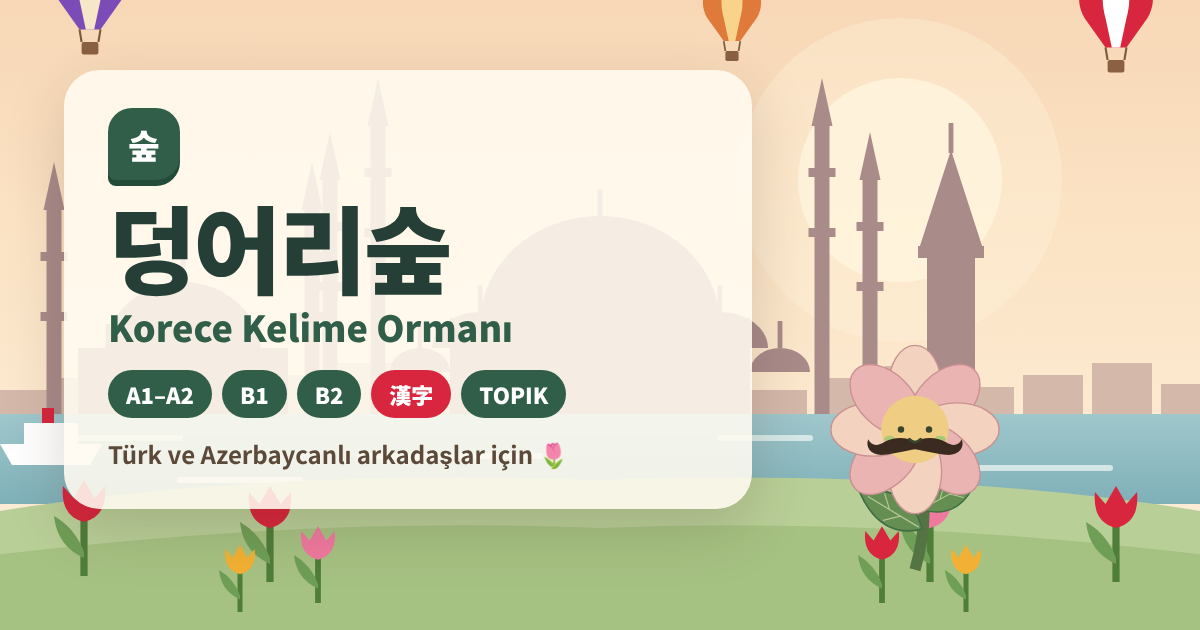
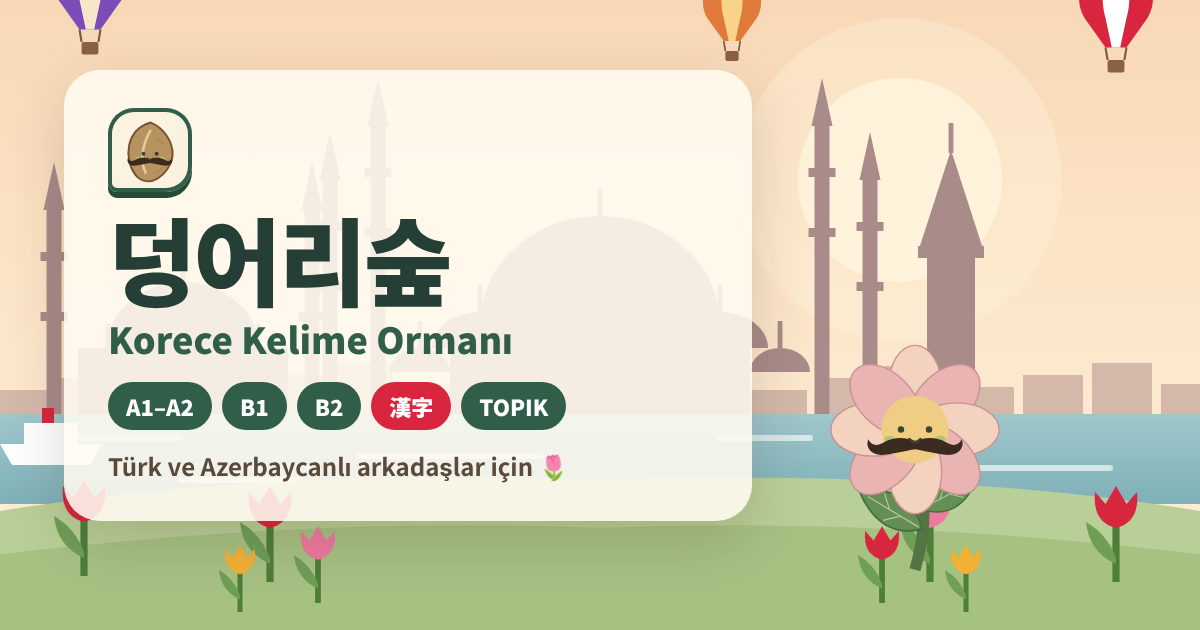
로고를 콧수염 마음씨로, 연락처 버튼 레이아웃 정리, 미리보기 그림 로고 교체
Claude-Session: https://claude.ai/code/session_012kSW7ZyPPrCC7F2xd3xm5g

Changed region(s): [[0.0925, 0.1508, 0.4933, 0.754], [0.0308, 0.7841, 0.6475, 0.8444]]

diff --git a/app.js b/app.js
@@ -42,7 +42,7 @@ tr:{sub:'Korece kelime ormanı · A1–B2',a2hsT:'📲 Ana ekrana ekle (uygulama
  story2:'Deongi Korece kelimelerle beslenir: her doğru cevap bir damla besin. Kelime öğrendikçe filizlenir, çiçek açar ve sonunda efsanevi bir bitkiye dönüşür. Bıyığını İstanbul\'daki ilk arkadaşı Berk kardeş hediye etti!',
  pathH:'Büyüme yolu',famH:'Bitki aileleri',
  path:[['Lv.1','Gönül Tohumu','Yolculuk başlıyor. Deongi toprağa düştü.'],['Lv.2','Gönül Filizi','İlk iki yaprak çıktı!'],['Lv.3','Aile seçimi','6 bitki ailesinden birini seçersin.'],['Lv.4–9','Büyüme','Her seviyede biraz daha büyür.'],['Lv.10','Evrim','Ailenin 3 yolundan birini seçersin.'],['Lv.15','Gizemli dönüşüm','İki gizemli formdan birini seçersin.'],['Lv.20','Efsanevi form','Antik ve efsanevi bitkiye dönüşür.']],
- famTxt:(f,mine)=>mine?`Senin ailen: ${f}`:'Başka bir aile — gölge olarak görünür.',locked:'Kilitli',lvReq:n=>`Lv.${n}\'da`,cur:'Şu an',music:'Müzik',musicOn:'Arka plan müziği: Açık',musicOff:'Arka plan müziği: Kapalı',notesH:'Güncelleme notları',notesBtn:'Neler yeni?',kakaoCopied:'KakaoTalk ID kopyalandı ✓',bizTitle:'İş birliği ve iletişim',bizText:'Kurumsal iş birliği, eğitim ve içerik ortaklığı için ulaşabilirsiniz.',myProg:'İlerleme tablom',stLearned:'Öğrenildi',stReview:'Tekrar edilecek',stNew:'Henüz çalışılmadı',learned:'Öğrenilen',toReview:'Tekrar',bestStreak:'En iyi seri',
+ famTxt:(f,mine)=>mine?`Senin ailen: ${f}`:'Başka bir aile — gölge olarak görünür.',locked:'Kilitli',lvReq:n=>`Lv.${n}\'da`,cur:'Şu an',music:'Müzik',musicOn:'Arka plan müziği: Açık',musicOff:'Arka plan müziği: Kapalı',notesH:'Güncelleme notları',notesBtn:'Neler yeni?',kakaoCopied:'Kopyalandı ✓',bizTitle:'İş birliği ve iletişim',bizText:'Kurumsal iş birliği, eğitim ve içerik ortaklığı için ulaşabilirsiniz.',myProg:'İlerleme tablom',stLearned:'Öğrenildi',stReview:'Tekrar edilecek',stNew:'Henüz çalışılmadı',learned:'Öğrenilen',toReview:'Tekrar',bestStreak:'En iyi seri',
  start:'Başla',quiz:'Test',cards:'Kartlar',review:n=>`Tekrar ${n}`,allUnits:'Tüm bölümler',unitN:k=>/^\d+$/.test(k)?`Bölüm ${k}`:k,
  level:'Seviye',unit:'Bölüm',timerOn:'12 saniye',timerOff:'Süre yok',timeLimit:'Süre sınırı (test)',
  hint:'Doğru anlama dokun · klavye 1–4',qWord:'Bu kelimenin anlamı nedir?',qPair:'Bu eş kelimenin anlamı nedir?',qHanja:'Bu Çince karakterin anlamı nedir?',
@@ -85,7 +85,7 @@ ko:{sub:'한국어 단어의 숲 · A1–B2',a2hsT:'📲 홈 화면에 추가하
  story2:'덩이는 한국어 단어를 먹고 자라요. 정답 하나가 양분 한 방울! 단어를 익힐수록 싹이 트고 꽃이 피고, 마침내 전설의 식물이 돼요. 콧수염은 이스탄불에서 처음 사귄 친구, Berk 동생의 선물이에요!',
  pathH:'성장 단계',famH:'식물 계열',
  path:[['Lv.1','마음씨','여행이 시작돼요. 덩이가 땅에 떨어졌어요.'],['Lv.2','마음싹','첫 떡잎 두 장이 나왔어요!'],['Lv.3','계열 선택','6가지 식물 계열 중 하나를 골라요.'],['Lv.4–9','쑥쑥 성장','레벨마다 조금씩 커져요.'],['Lv.10','진화','계열마다 3가지 길 중 하나를 골라요.'],['Lv.15','신기한 변신','두 갈래 중 하나를 골라요.'],['Lv.20','전설의 모습','고대·전설의 식물로 변신해요.']],
- famTxt:(f,mine)=>mine?`나의 계열: ${f}`:'다른 계열이에요 — 그림자로 보여요.',locked:'잠김',lvReq:n=>`Lv.${n}`,cur:'지금',music:'음악',musicOn:'배경 음악: 켜짐',musicOff:'배경 음악: 꺼짐',notesH:'업데이트 노트',notesBtn:'새로운 내용 보기',kakaoCopied:'카카오톡 ID 복사됨 ✓',bizTitle:'비즈니스 협업 · 문의',bizText:'기관·기업 협업, 교육·콘텐츠 제휴는 아래로 연락 주세요.',myProg:'나의 진도표',stLearned:'익힘',stReview:'다시 볼 단어',stNew:'아직 안 함',learned:'익힌 단어',toReview:'복습',bestStreak:'최고 연속',
+ famTxt:(f,mine)=>mine?`나의 계열: ${f}`:'다른 계열이에요 — 그림자로 보여요.',locked:'잠김',lvReq:n=>`Lv.${n}`,cur:'지금',music:'음악',musicOn:'배경 음악: 켜짐',musicOff:'배경 음악: 꺼짐',notesH:'업데이트 노트',notesBtn:'새로운 내용 보기',kakaoCopied:'복사됨 ✓',bizTitle:'비즈니스 협업 · 문의',bizText:'기관·기업 협업, 교육·콘텐츠 제휴는 아래로 연락 주세요.',myProg:'나의 진도표',stLearned:'익힘',stReview:'다시 볼 단어',stNew:'아직 안 함',learned:'익힌 단어',toReview:'복습',bestStreak:'최고 연속',
  start:'시작하기',quiz:'퀴즈',cards:'카드',review:n=>`복습 ${n}`,allUnits:'전체 단원',unitN:k=>/^\d+$/.test(k)?`${k}단원`:k,
  level:'단계',unit:'단원',timerOn:'12초',timerOff:'시간제한 없음',timeLimit:'제한 시간 (퀴즈)',
  hint:'알맞은 뜻을 누르세요 · 키보드 1–4',qWord:'이 단어의 뜻은 무엇일까요?',qPair:'이 짝꿍어휘의 뜻은 무엇일까요?',qHanja:'이 한자의 뜻은 무엇일까요?',
@@ -482,47 +482,18 @@ $('bReset').onclick=()=>{if(!resetArm){resetArm=true;$('bReset').textContent=t('
 // ---------- iletişim bağlantıları ----------
 function renderLinks(){
  const h=[];
- if(INSTA)h.push(`<a class="ig" href="https://www.instagram.com/${encodeURIComponent(INSTA)}/" target="_blank" rel="noopener">Instagram @${esc(INSTA)}</a>`);
- if(KAKAO)h.push(`<button class="kk" data-copy="${esc(KAKAO)}">KakaoTalk ID: ${esc(KAKAO)} · ${esc(t('copy'))}</button>`);
- if(CONTACT)h.push(`<a class="ml" href="mailto:${esc(CONTACT)}">✉ ${esc(CONTACT)}</a>`);
+ if(INSTA)h.push(`<a class="lk ig" href="https://www.instagram.com/${encodeURIComponent(INSTA)}/" target="_blank" rel="noopener"><span class="ic"><svg><use href="#i-ig"/></svg></span><span class="tx"><b>Instagram</b><small>@${esc(INSTA)}</small></span></a>`);
+ if(KAKAO)h.push(`<button class="lk kk" data-copy="${esc(KAKAO)}"><span class="ic"><svg><use href="#i-kk"/></svg></span><span class="tx"><b>KakaoTalk</b><small>ID · ${esc(KAKAO)}</small></span></button>`);
+ if(CONTACT)h.push(`<a class="lk ml" href="mailto:${esc(CONTACT)}"><span class="ic"><svg><use href="#i-mail"/></svg></span><span class="tx"><b>E-mail</b><small>${esc(CONTACT)}</small></span></a>`);
  ['links','linksW','linksN'].forEach(id=>{$(id).innerHTML=h.join('')});
 }
-document.addEventListener('click',async e=>{const b=e.target.closest('[data-copy]');if(!b)return;
- try{await navigator.clipboard.writeText(b.dataset.copy);b.textContent=t('kakaoCopied')}catch(err){b.textContent='KakaoTalk ID: '+b.dataset.copy}});
-
-// ---------- bitki rehberi (도감) ----------
-let bookFam=null;
-function svgAt(pet,lv,route,branch,lock){CH.setProfile({routes:route?{[pet]:route}:{},branches:branch?{[pet]:branch}:{}});return CH.creatureSVG(pet,route||null,lv,undefined,lock,branch||null)}
-function renderBook(){
- $('bkMascot').innerHTML=art();
- const L=S.level,stageIdx=L>=20?6:L>=15?5:L>=10?4:L>=4?3:L>=3?2:L>=2?1:0,mins=[1,2,3,4,10,15,20];
- $('bkPath').innerHTML=t('path').map(([lv,n,d],i)=>`<li class="${L>=mins[i]?'on':''}${i===stageIdx?' now':''}"><span class="lv">${esc(lv)}</span><div><b>${esc(n)}${i===stageIdx?` · ${esc(t('cur'))}`:''}</b><small>${esc(d)}</small></div></li>`).join('');
- const fams=Object.keys(CH.GROWTH);bookFam=bookFam||S.pet||fams[0];
- $('bkFam').innerHTML=fams.map(f=>`<button data-bf="${f}" aria-pressed="${f===bookFam}">${esc(TX[S.lang].fam[f])}${f===S.pet?' ★':''}</button>`).join('');
- const mine=bookFam===S.pet;
- $('bkFamTxt').textContent=t('famTxt',TX[S.lang].fam[bookFam],mine);
- const card=(svg,name,sub,cls)=>`<div class="ccard ${cls}">${svg}<b>${esc(name)}</b><small>${esc(sub)}</small></div>`;
- const reach=(lv,route,branch)=>mine&&L>=lv&&(!route||S.route===route)&&(!branch||S.branch===branch);
- let h=`<div class="sep">Lv.3 · Lv.6</div>`;
- h+=card(svgAt(bookFam,3,null,null,!reach(3)),TX[S.lang].fam[bookFam],t('lvReq',3),reach(3)?'mine':'lock');
- h+=card(svgAt(bookFam,6,null,null,!reach(6)),t('growing',TX[S.lang].fam[bookFam]),t('lvReq',6),reach(6)?'mine':'lock');
- h+=`<div class="sep">Lv.10</div>`;
- const routes=CH.GROWTH[bookFam].routes;
- routes.forEach(r=>{const ok=reach(10,r.id);h+=card(svgAt(bookFam,10,r.id,null,!ok),TX[S.lang].route[r.id],t('lvReq',10),ok?'mine':'lock')});
- routes.forEach(r=>{h+=`<div class="sep">${esc(TX[S.lang].route[r.id])} · Lv.15 / Lv.20</div>`;
-  r.branches.forEach((b,i)=>{
-   const n15=S.lang==='ko'?b.name:t('magic',TX.tr.route[r.id])+' '+(i+1),n20=S.lang==='ko'?b.final:t('legend',TX.tr.route[r.id])+' '+(i+1);
-   const o15=reach(15,r.id,b.id),o20=reach(20,r.id,b.id);
-   h+=card(svgAt(bookFam,15,r.id,b.id,!o15),o15?n15:'?',t('lvReq',15),o15?'mine':'lock');
-   if(i===0)h+=card(svgAt(bookFam,20,r.id,b.id,!o20),o20?n20:'?',t('lvReq',20),o20?'mine':'lock');
-   else h+=card(svgAt(bookFam,20,r.id,b.id,!o20),o20?n20:'?',t('lvReq',20),o20?'mine':'lock');
-  });h+='<div></div><div></div>'.slice(0,0)});
- $('bkGrid').innerHTML=h;
-}
-function openBook(){bookFam=S.pet||null;renderBook();$('mBook').hidden=false}
-$('bBook').onclick=openBook;$('mascot').addEventListener('click',openBook);
-$('bBookX').onclick=()=>{$('mBook').hidden=true};
-$('bkFam').addEventListener('click',e=>{const b=e.target.closest('[data-bf]');if(b){bookFam=b.dataset.bf;renderBook()}});
+document.addEventListener('click',async e=>{const b=e.target.closest('[data-copy]');if(!b)return;const sm=b.querySelector('small');
+ try{await navigator.clipboard.writeText(b.dataset.copy);sm.textContent=t('kakaoCopied');sm.classList.add('ok')}catch(err){}
+ setTimeout(()=>{sm.textContent='ID · '+b.dataset.copy;sm.classList.remove('ok')},2200)});
+// logo: bıyıklı gönül tohumu
+function logoSVG(){CH.setProfile({routes:{},branches:{}});const g=CH.plantGeometry('tree',null,1,null),[fx,fy]=g.face;
+ return CH.creatureSVG('tree',null,1).replace(/viewBox="[^"]*"/,'viewBox="57 119 66 74"').replace('<g class="expression-normal">',stache(fx,fy,1)+'<g class="expression-normal">')}
+document.querySelectorAll('.logo-seed').forEach(el=>el.innerHTML=logoSVG());
 
 // ---------- güncelleme notları ----------
 const NOTES=[

diff --git a/index.html b/index.html
@@ -9,7 +9,7 @@
 <meta property="og:description" content="Korece kelimeyi gör, Türkçe anlamını seç. Eş kelimeler, kartlar, bitki arkadaşını büyüt!">
 <meta property="og:type" content="website">
 <meta property="og:url" content="https://jindam1799.github.io/korece_Turkce_TOPIK/">
-<meta property="og:image" content="https://jindam1799.github.io/korece_Turkce_TOPIK/og-image.png">
+<meta property="og:image" content="https://jindam1799.github.io/korece_Turkce_TOPIK/og-image.png?v=2">
 <meta property="og:image:width" content="1200">
 <meta property="og:image:height" content="630">
 <meta property="og:image:alt" content="덩어리숲 · Korece Kelime Ormanı">
@@ -18,7 +18,7 @@
 <meta name="twitter:card" content="summary_large_image">
 <meta name="twitter:title" content="덩어리숲 · Korece Kelime Ormanı">
 <meta name="twitter:description" content="Korece kelimeyi gör, Türkçe anlamını seç. A1'den B2'ye, Hanca, eş kelimeler ve bitki arkadaşın!">
-<meta name="twitter:image" content="https://jindam1799.github.io/korece_Turkce_TOPIK/og-image.png">
+<meta name="twitter:image" content="https://jindam1799.github.io/korece_Turkce_TOPIK/og-image.png?v=2">
 <meta name="theme-color" content="#315e48">
 <meta name="author" content="Wonju (원주)">
 <link rel="manifest" href="manifest.webmanifest">
@@ -48,6 +48,7 @@ button:focus-visible,select:focus-visible,input:focus-visible{outline:3px solid 
 /* üst çubuk */
 .top{display:flex;align-items:center;gap:10px;flex:none}
 .brand{display:flex;align-items:center;gap:9px;flex:1}
+.logo-seed svg{width:100%;height:100%;display:block}
 .brand-icon{width:38px;height:38px;border-radius:13px 13px 13px 4px;background:var(--green);color:#fff;display:grid;place-items:center;font:800 15px "Noto Sans KR",sans-serif;flex:none}
 .brand b{display:block;font:800 19px/1.15 "Noto Sans KR",sans-serif;letter-spacing:-.5px}
 .brand small{display:block;font-size:11px;color:var(--muted);white-space:nowrap;overflow:hidden;text-overflow:ellipsis}
@@ -246,11 +247,17 @@ button:focus-visible,select:focus-visible,input:focus-visible{outline:3px solid 
 .ipress2{margin:8px 0 0;font-size:13px;font-weight:700;color:#263f36}
 .icopy{margin:6px 0 0;font-size:11px;color:#4d5c52}
 @keyframes blink{50%{opacity:.45}}
-.links{display:flex;flex-wrap:wrap;gap:6px;margin-top:8px}
-.links a,.links button{display:inline-flex;align-items:center;gap:6px;min-height:40px;border:1.5px solid var(--line);background:#fff;border-radius:12px;padding:6px 12px;font-size:14px;font-weight:800;color:var(--ink);text-decoration:none}
-.links .ig{background:linear-gradient(45deg,#f9ce34,#ee2a7b,#6228d7);color:#fff;border:0}
-.links .kk{background:#fee500;border-color:#fee500;color:#3a1d1d}
-.links .ml{background:var(--green);color:#fff;border:0}
+.links{display:grid;grid-template-columns:minmax(0,1fr) minmax(0,1fr);gap:8px;margin:10px 0 14px}
+.links:empty{display:none}
+.lk{display:flex;align-items:center;gap:10px;min-height:58px;border-radius:16px;padding:8px 12px;text-align:left;text-decoration:none;border:0;font:inherit;color:var(--ink);background:#fff;box-shadow:inset 0 0 0 1.5px var(--line)}
+.lk .ic{width:34px;height:34px;border-radius:11px;display:grid;place-items:center;flex:none}
+.lk .ic svg{width:20px;height:20px}
+.lk .tx{display:grid;line-height:1.2;min-width:0}
+.lk b{font-size:14px}.lk small{font-size:12px;color:var(--muted);white-space:nowrap;overflow:hidden;text-overflow:ellipsis}
+.lk.ig .ic{background:linear-gradient(45deg,#f9ce34,#ee2a7b,#6228d7);color:#fff}
+.lk.kk .ic{background:#fee500;color:#3a1d1d}
+.lk.kk small.ok{color:var(--green);font-weight:800}
+.lk.ml{grid-column:1/-1}.lk.ml .ic{background:var(--green);color:#fff}
 .note{font-size:14px}
 .nver{border-left:3px solid var(--green);padding:4px 0 4px 12px;margin:10px 0}
 .nver b{display:block}.nver small{color:var(--muted)}.nver ul{margin:4px 0 0;padding-left:18px;font-size:14px}
@@ -263,6 +270,8 @@ button:focus-visible,select:focus-visible,input:focus-visible{outline:3px solid 
 .foot a,.biz a{color:var(--green);font-weight:800;word-break:break-all}
 .biz{background:var(--paper);border:1px solid var(--line);border-radius:14px;padding:10px 12px;font-size:14px;margin-top:10px}
 .biz button{border:1.5px solid var(--line);background:#fff;border-radius:10px;padding:4px 10px;font-size:13px;font-weight:700;margin-left:6px}
+.brand-icon.logo-seed{background:#fbf3df;box-shadow:inset 0 0 0 2px var(--green);padding:3px}
+.ilogo.logo-seed{background:#fbf3df;box-shadow:inset 0 0 0 3px var(--green),0 6px 0 #244a38;padding:6px;width:72px;height:72px}
 </style>
 </head>
 <body>
@@ -271,19 +280,21 @@ button:focus-visible,select:focus-visible,input:focus-visible{outline:3px solid 
  <symbol id="i-set" viewBox="0 0 24 24"><path d="M4 7h10M18 7h2M4 17h4M12 17h8" stroke="currentColor" stroke-width="2.2" stroke-linecap="round"/><circle cx="16" cy="7" r="2.4" fill="none" stroke="currentColor" stroke-width="2"/><circle cx="10" cy="17" r="2.4" fill="none" stroke="currentColor" stroke-width="2"/></symbol>
  <symbol id="i-mail" viewBox="0 0 24 24"><rect x="3" y="5" width="18" height="14" rx="3" fill="none" stroke="currentColor" stroke-width="2"/><path d="M4 7l8 6 8-6" fill="none" stroke="currentColor" stroke-width="2" stroke-linejoin="round"/></symbol>
  <symbol id="i-book" viewBox="0 0 24 24"><path d="M4 5.5A2.5 2.5 0 0 1 6.5 3H20v15H6.5A2.5 2.5 0 0 0 4 20.5z" fill="none" stroke="currentColor" stroke-width="2" stroke-linejoin="round"/><path d="M4 20.5A2.5 2.5 0 0 0 6.5 23H20v-5" fill="none" stroke="currentColor" stroke-width="2" stroke-linejoin="round"/><path d="M12 7c-1.5-1.6-4-1-4 1 0 2 4 4 4 4s4-2 4-4c0-2-2.5-2.6-4-1z" fill="currentColor"/></symbol>
+ <symbol id="i-ig" viewBox="0 0 24 24"><rect x="3" y="3" width="18" height="18" rx="5" fill="none" stroke="currentColor" stroke-width="2"/><circle cx="12" cy="12" r="4" fill="none" stroke="currentColor" stroke-width="2"/><circle cx="17.3" cy="6.7" r="1.3" fill="currentColor"/></symbol>
+ <symbol id="i-kk" viewBox="0 0 24 24"><path d="M12 4C6.8 4 3 7.2 3 11c0 2.4 1.6 4.5 4 5.7l-.9 3.3 3.8-2.5c.7.1 1.4.2 2.1.2 5.2 0 9-3.2 9-7.1S17.2 4 12 4z" fill="currentColor"/></symbol>
  <symbol id="i-x" viewBox="0 0 24 24"><path d="M6 6l12 12M18 6L6 18" stroke="currentColor" stroke-width="2.4" stroke-linecap="round"/></symbol>
 </svg>
 
 <div class="app" id="app">
  <div class="intro" id="intro" role="button" tabindex="0" aria-label="Başla">
   <div class="iscene" id="iScene" aria-hidden="true"></div>
-  <div class="ihead"><span class="ilogo">숲</span><h1>덩어리숲</h1><p class="isub">Korece Kelime Ormanı</p><p class="itag">A1 · A2 · B1 · B2 · 漢字</p></div>
+  <div class="ihead"><span class="ilogo logo-seed" aria-hidden="true"></span><h1>덩어리숲</h1><p class="isub">Korece Kelime Ormanı</p><p class="itag">A1 · A2 · B1 · B2 · 漢字</p></div>
   <div class="imascot" id="iMascot" aria-hidden="true"></div>
   <div class="ifoot"><p class="ipress" id="iPress">Başlamak için ekrana dokun</p><p class="ipress2" id="iPress2">시작하려면 화면을 누르세요</p><p class="icopy">© 2026 Wonju (원주)</p></div>
  </div>
  <section class="screen" id="home">
   <div class="top">
-   <div class="brand"><span class="brand-icon">숲</span><div><b>덩어리숲</b><small data-t="sub"></small></div></div>
+   <div class="brand"><span class="brand-icon logo-seed" aria-hidden="true"></span><div><b>덩어리숲</b><small data-t="sub"></small></div></div>
    <div class="lang"><button data-lang="tr">TR</button><button data-lang="ko">한</button></div>
    <button class="icon" id="bBook" data-al="codex"><svg><use href="#i-book"/></svg></button>
    <button class="icon" id="bMsg" data-al="msg"><svg><use href="#i-mail"/></svg></button>

diff --git a/sw.js b/sw.js
@@ -1,5 +1,5 @@
 /* 덩어리숲 · çevrimdışı önbellek. Yeni sürüm yayınlarken VERSION'ı değiştirin. */
-const VERSION='deongeori-v7';
+const VERSION='deongeori-v8';
 const FILES=['./','index.html','app.js','char.js','config.js','manifest.webmanifest','icons/icon-192.png','icons/icon-512.png','og-image.png',
  'data/a12.js','data/b11.js','data/b12.js','data/b21.js','data/b22.js','data/hanja.js'];
 self.addEventListener('install',e=>{e.waitUntil(caches.open(VERSION).then(c=>c.addAll(FILES)).then(()=>self.skipWaiting()))});
